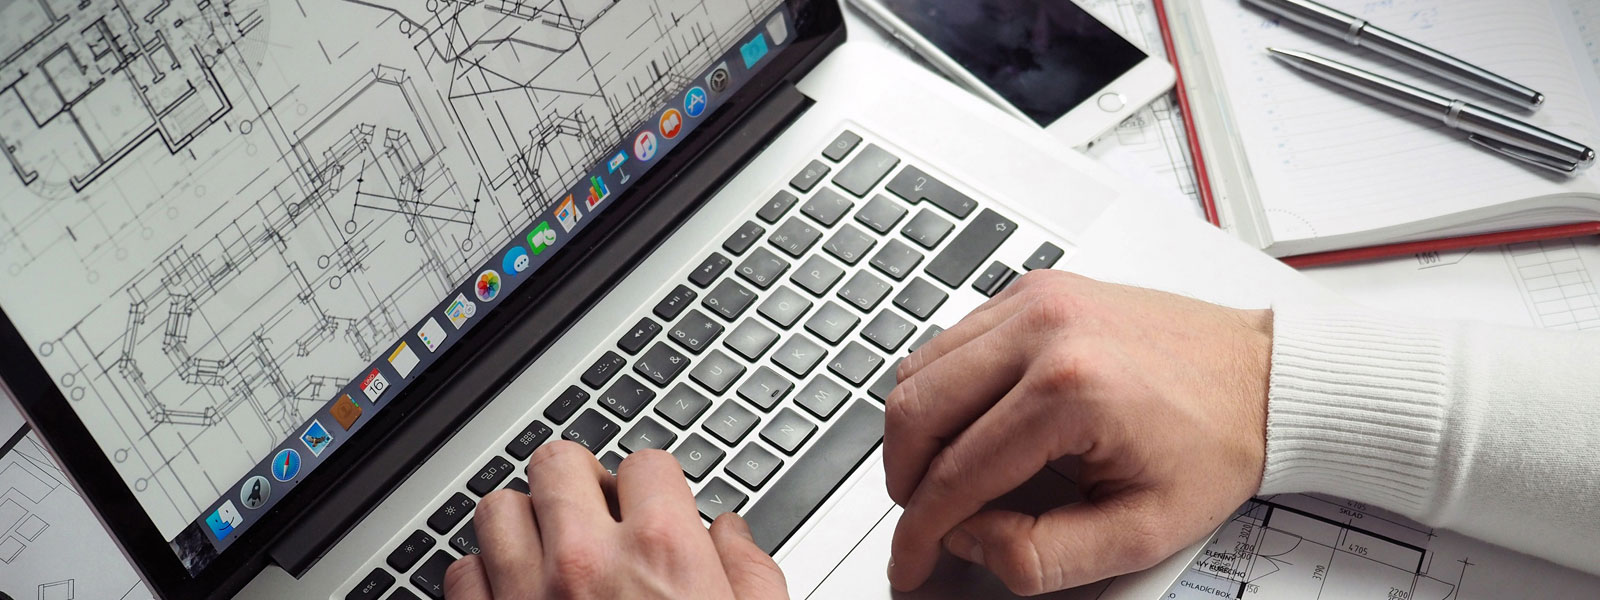
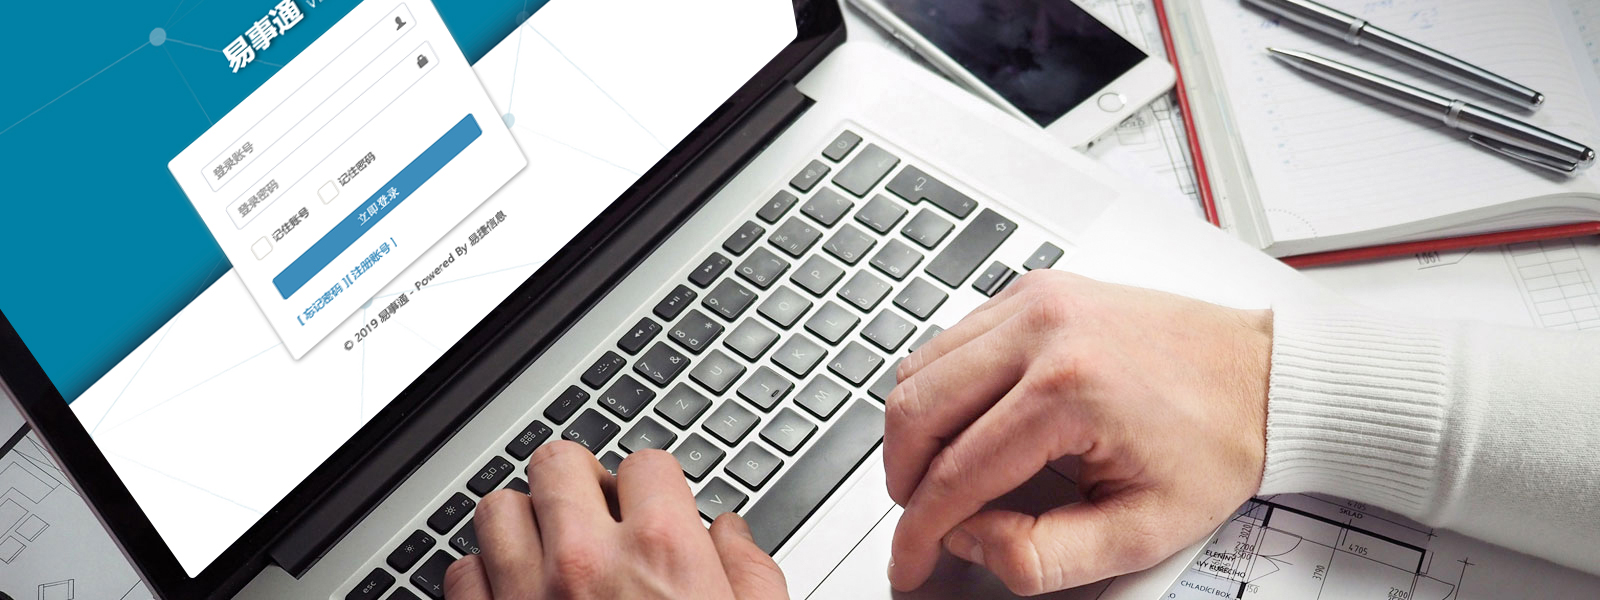
修改banner

diff --git a/about.html b/about.html
@@ -42,7 +42,7 @@
 						<span class="icon-bar"></span>
 						<span class="icon-bar"></span>
 					</button>
-					<h1><a class="navbar-brand" href="index.html">Mercantile</a></h1>
+					<h1><a class="navbar-brand" href="index.html"></a></h1>
 				</div>
 				<!-- Collect the nav links, forms, and other content for toggling -->
 				<div class="collapse navbar-collapse navbar-right" id="bs-example-navbar-collapse-1">

diff --git a/mail.html b/mail.html
@@ -42,7 +42,7 @@
 						<span class="icon-bar"></span>
 						<span class="icon-bar"></span>
 					</button>
-					<h1><a class="navbar-brand" href="index.html">Mercantile</a></h1>
+					<h1><a class="navbar-brand" href="index.html"></a></h1>
 				</div>
 				<!-- Collect the nav links, forms, and other content for toggling -->
 				<div class="collapse navbar-collapse navbar-right" id="bs-example-navbar-collapse-1">

diff --git a/services.html b/services.html
@@ -42,7 +42,7 @@
 						<span class="icon-bar"></span>
 						<span class="icon-bar"></span>
 					</button>
-					<h1><a class="navbar-brand" href="index.html">Mercantile</a></h1>
+					<h1><a class="navbar-brand" href="index.html"></a></h1>
 				</div>
 				<!-- Collect the nav links, forms, and other content for toggling -->
 				<div class="collapse navbar-collapse navbar-right" id="bs-example-navbar-collapse-1">

diff --git a/short-codes.html b/short-codes.html
@@ -42,7 +42,7 @@
 						<span class="icon-bar"></span>
 						<span class="icon-bar"></span>
 					</button>
-					<h1><a class="navbar-brand" href="index.html">Mercantile</a></h1>
+					<h1><a class="navbar-brand" href="index.html"></a></h1>
 				</div>
 				<!-- Collect the nav links, forms, and other content for toggling -->
 				<div class="collapse navbar-collapse navbar-right" id="bs-example-navbar-collapse-1">

diff --git a/single.html b/single.html
@@ -42,7 +42,7 @@
 						<span class="icon-bar"></span>
 						<span class="icon-bar"></span>
 					</button>
-					<h1><a class="navbar-brand" href="index.html">Mercantile</a></h1>
+					<h1><a class="navbar-brand" href="index.html"></a></h1>
 				</div>
 				<!-- Collect the nav links, forms, and other content for toggling -->
 				<div class="collapse navbar-collapse navbar-right" id="bs-example-navbar-collapse-1">
